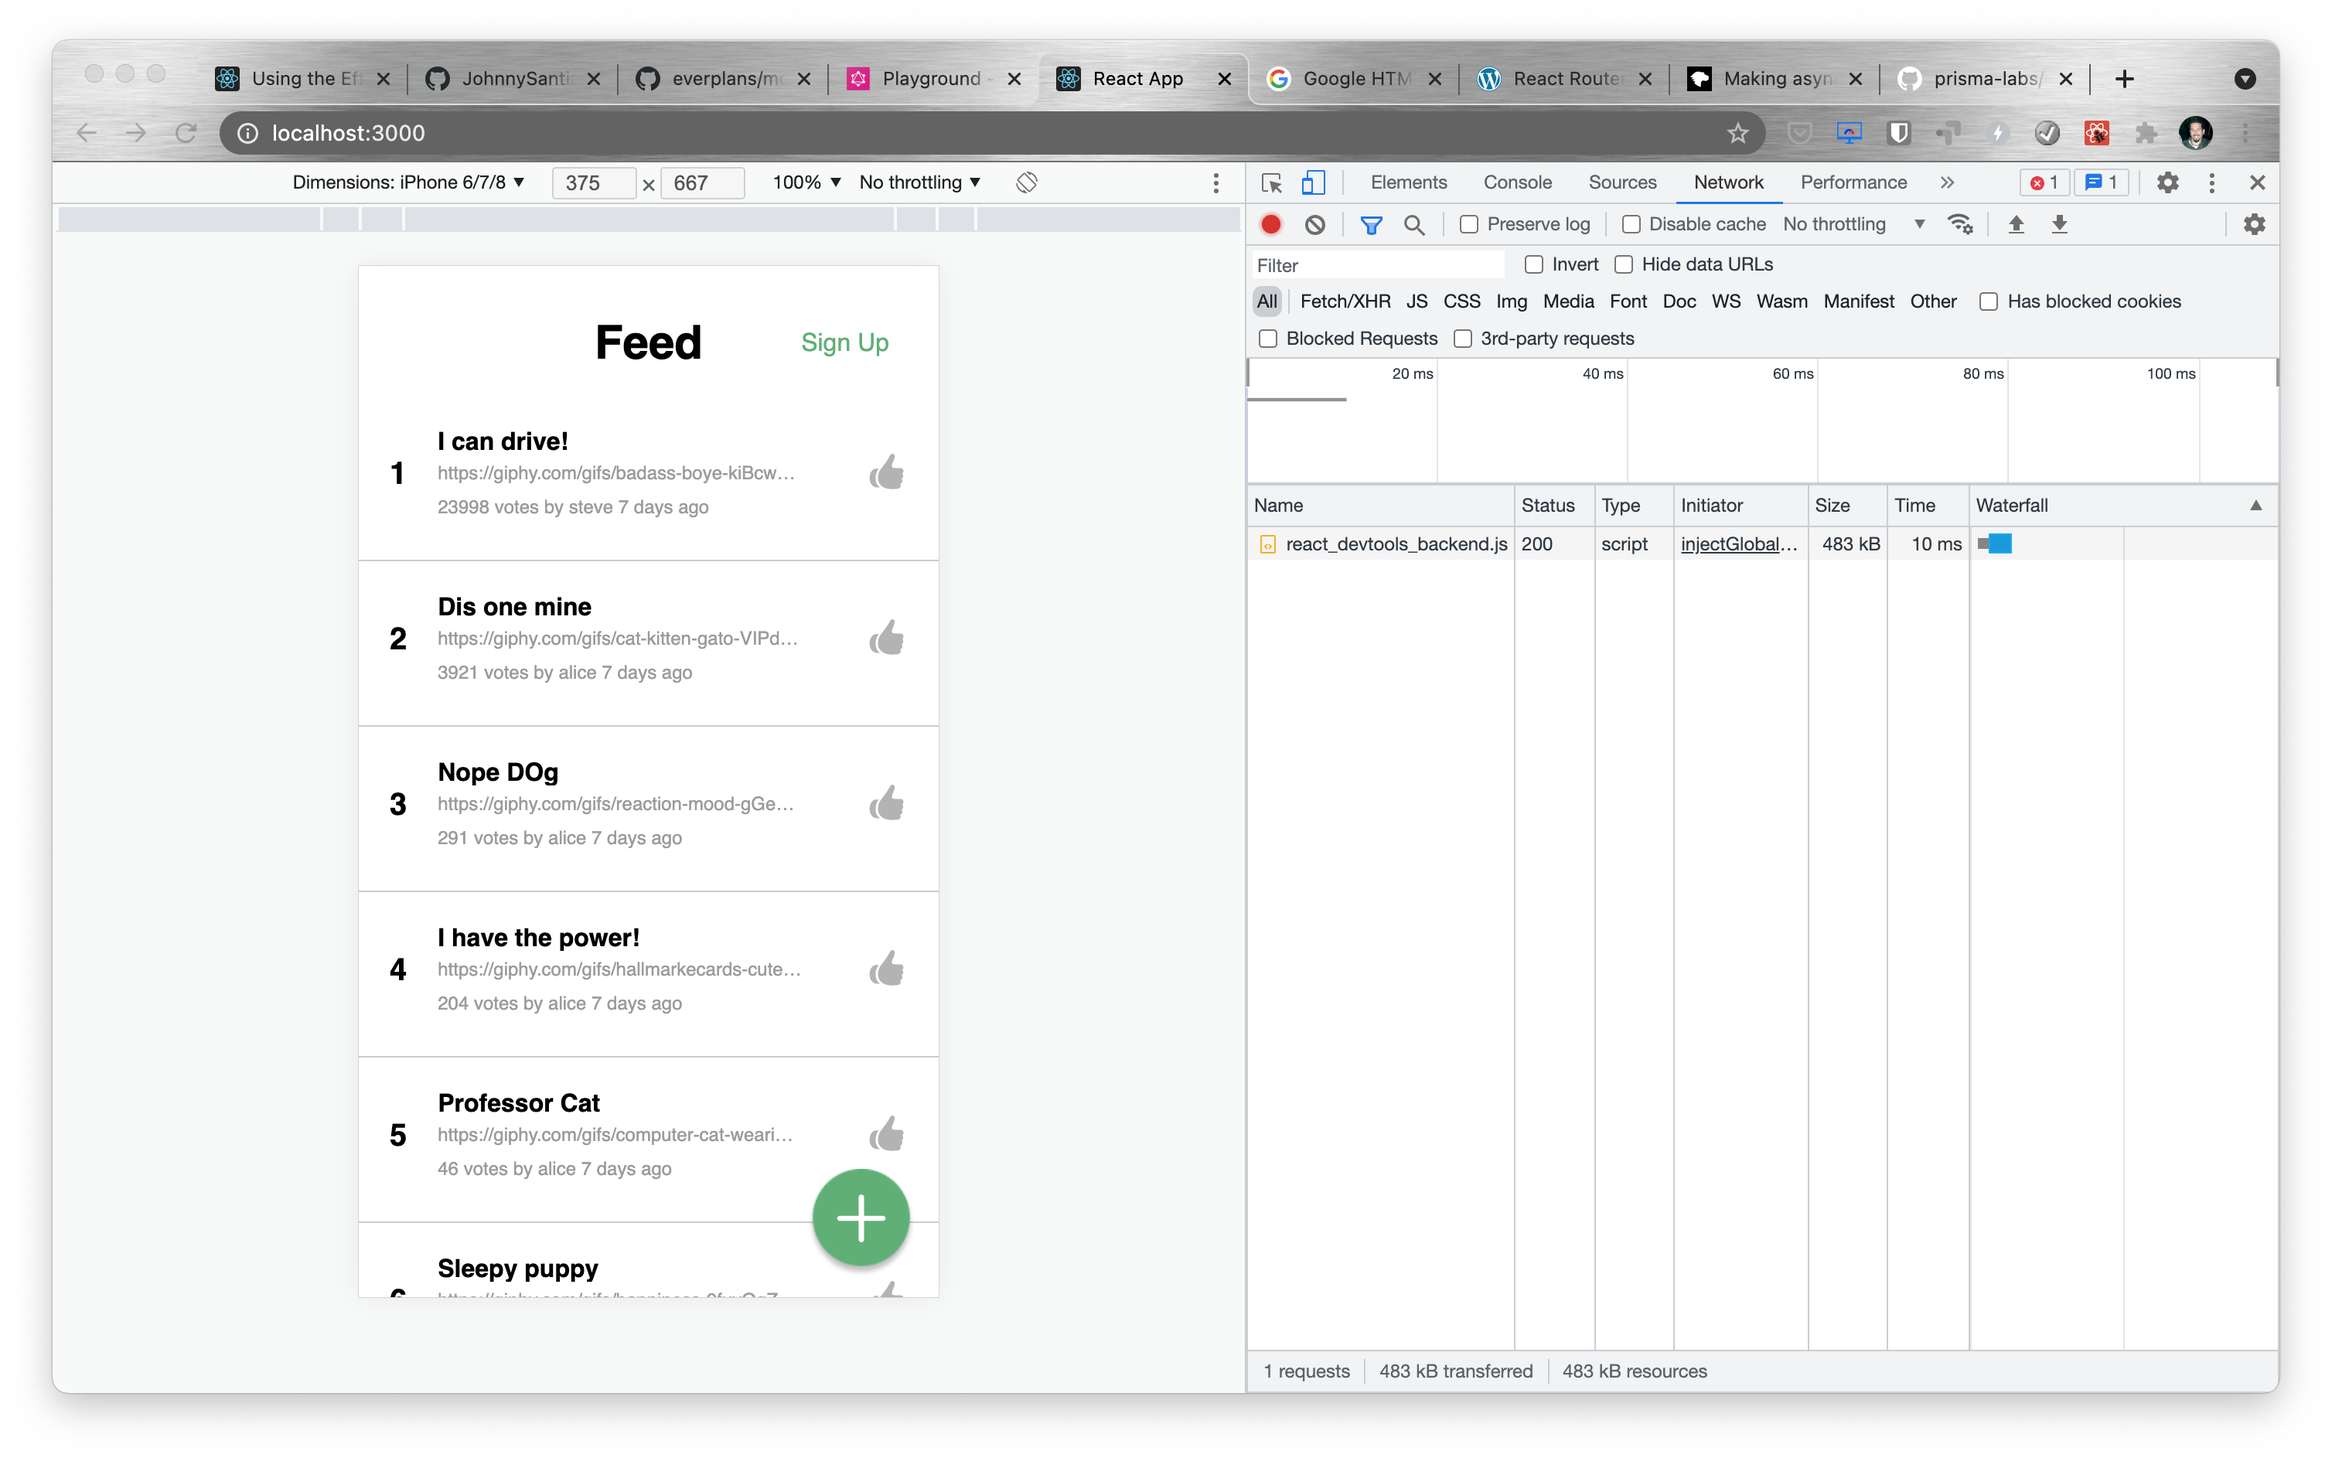
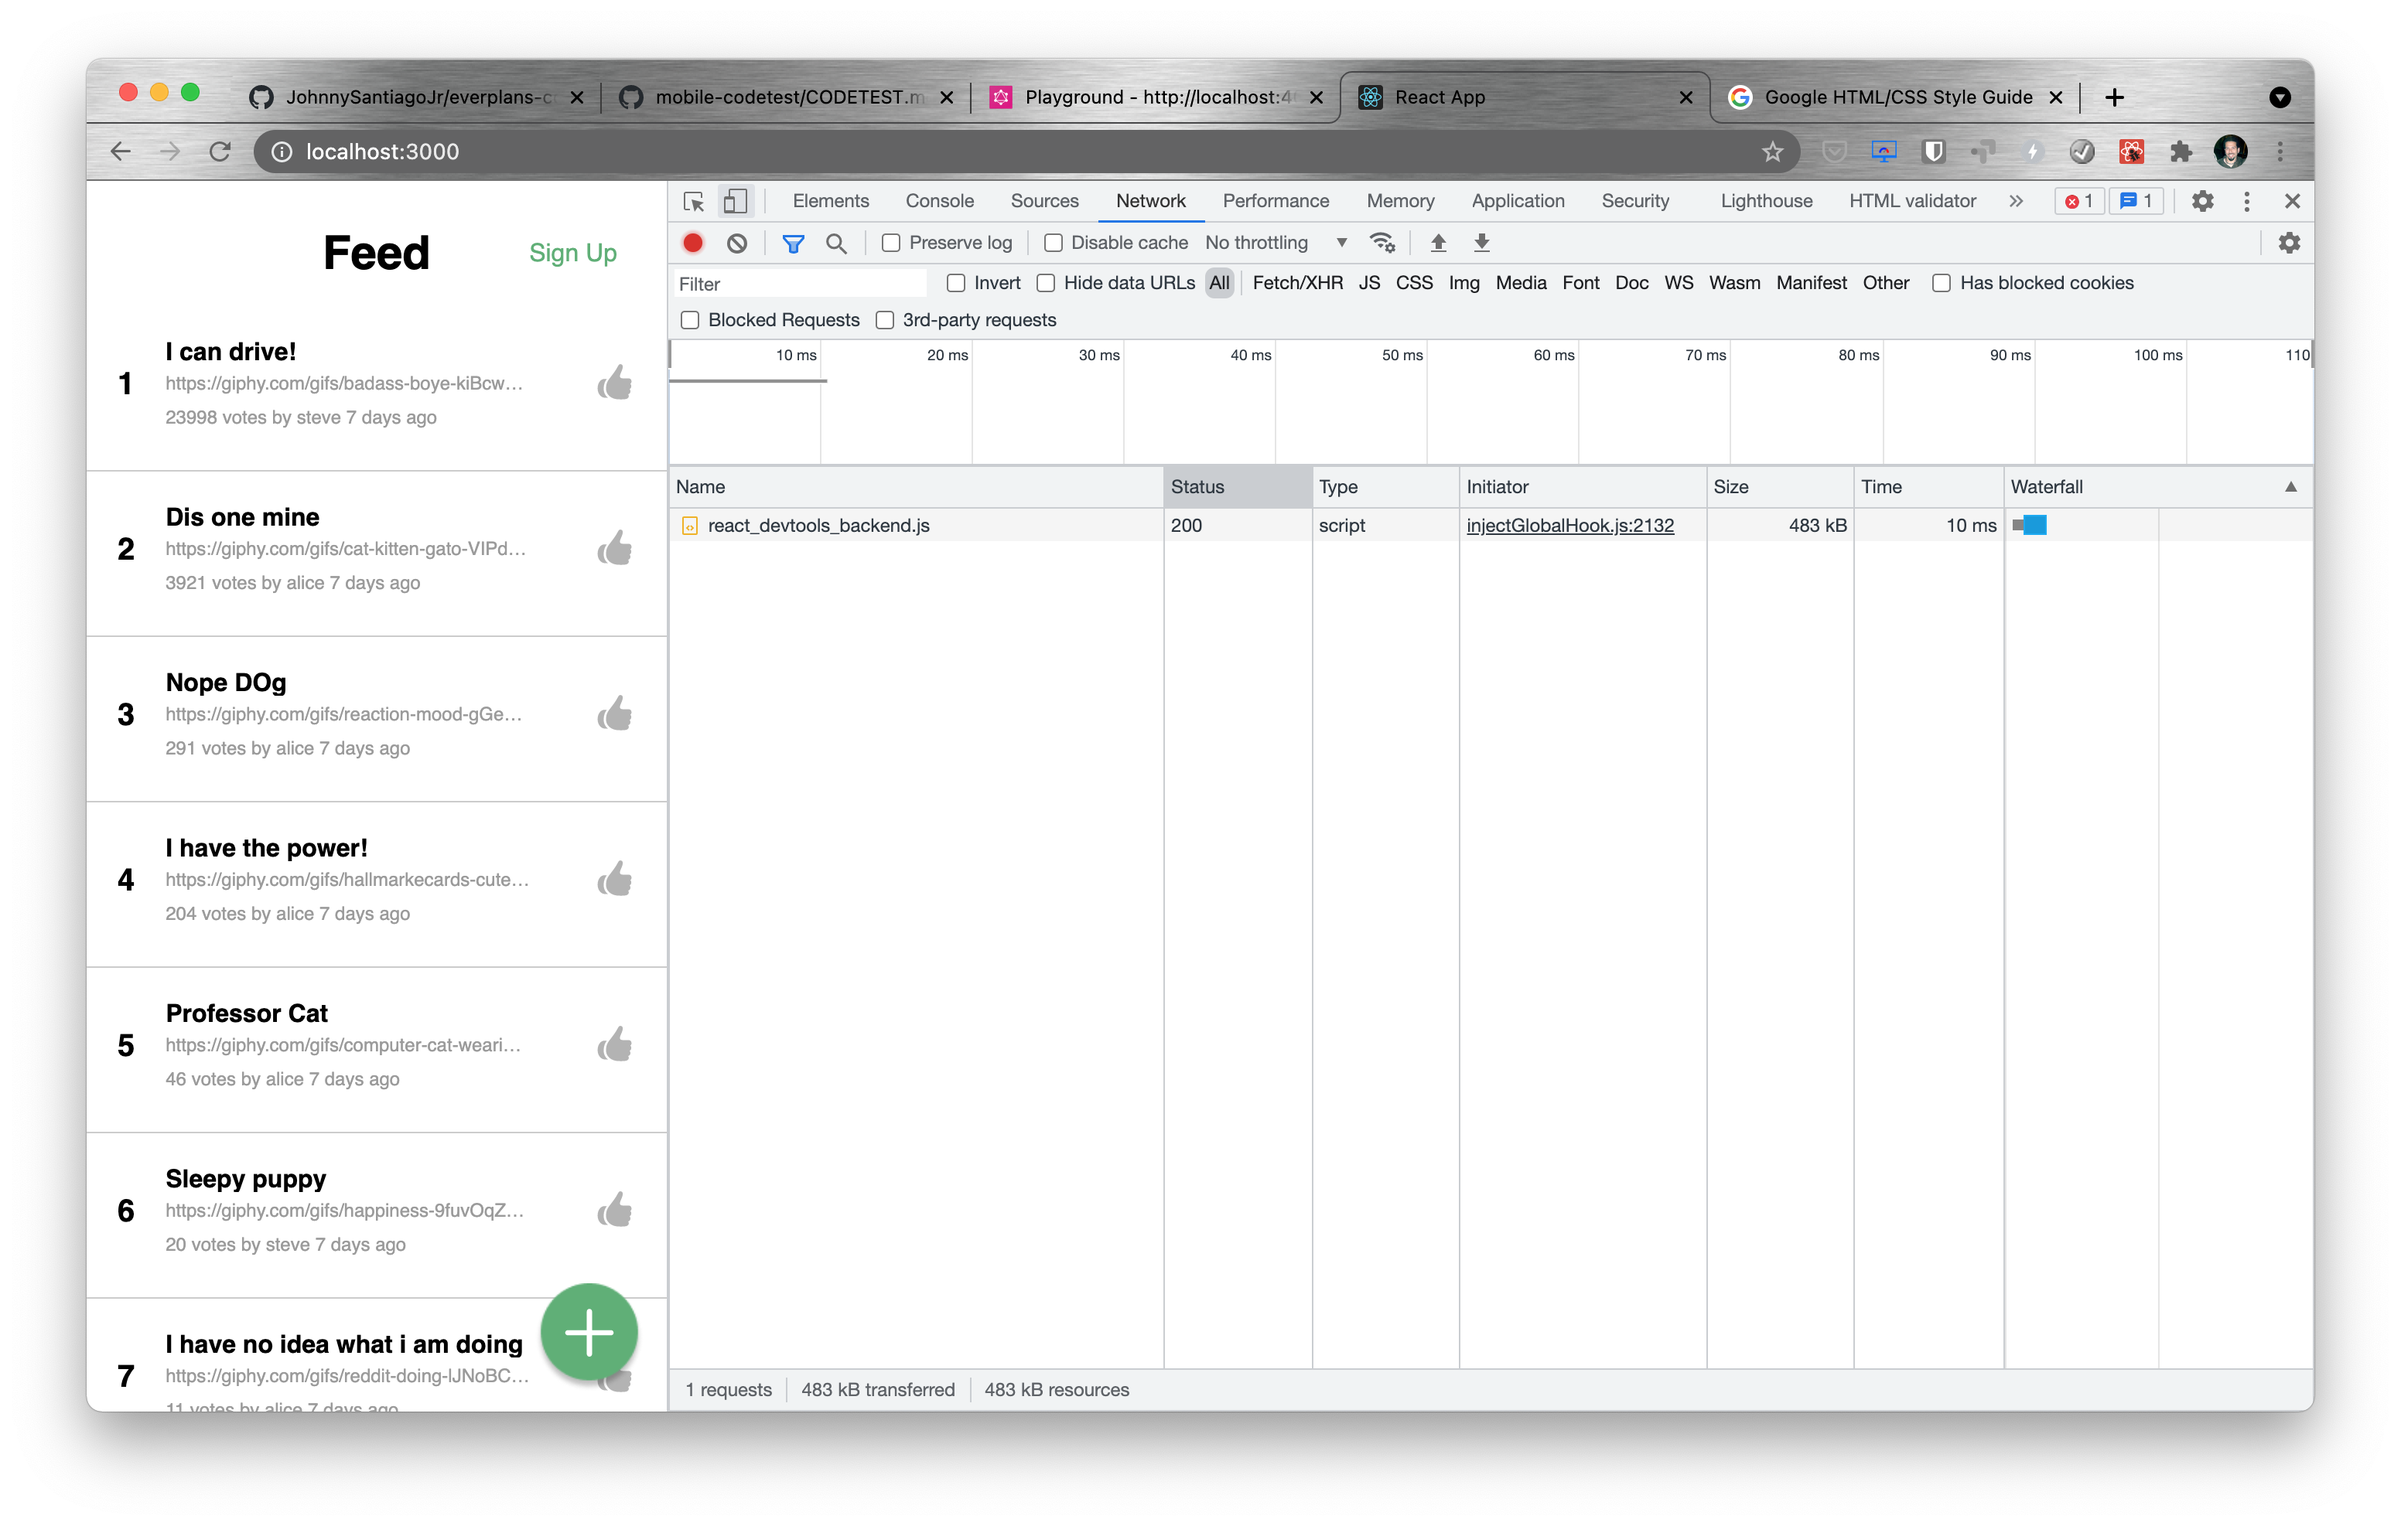
Update README again and update screenshot.

diff --git a/README.md b/README.md
@@ -1,6 +1,6 @@
 # Everplans Mobile Codetest Solution
 
-This project is my solution to the [Everplans Mobile Codetest](https://github.com/everplans/mobile-codetest). However, in discussions with Bernie it was decided that it should be completed for the browser and not a mobile device as it was originally intended. Additionally, since the supplied designs were for one mobile screen size my project should be viewed on a 375px width screen. To see what my ultimate intent was in implementing the designs it should be viewed in the iPhone 6/7/8 mobile setting in your browser's dev tools.
+This project is my solution to the [Everplans Mobile Developer Codetest](https://github.com/everplans/mobile-codetest/blob/main/CODETEST.md). However, in discussions with Bernie Kravitz, SVP of Technology at Everplans, it was decided that the project should be completed for the browser and not a mobile device as it was originally intended. Additionally, since the supplied designs were for one mobile screen size my project should be viewed in your browser on a 375px width screen and is not responsive. 
 
 ![dev tools screenshot](https://github.com/JohnnySantiagoJr/everplans-codetest/blob/6d1a8be102c04633c721f9a384f48d3a6bb4455c/src/images/dev-tools-screenshot.png)
 
